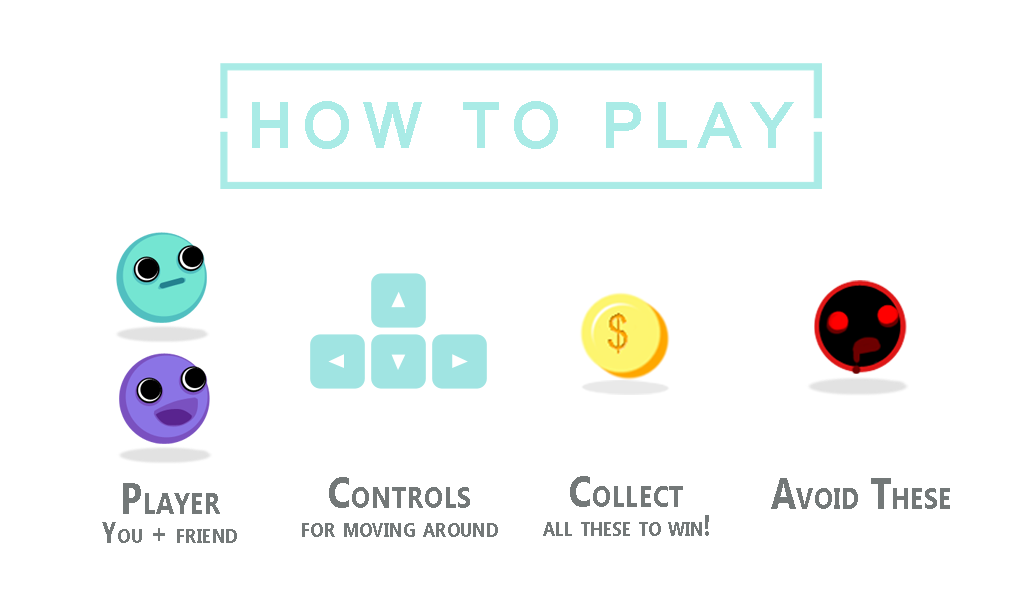
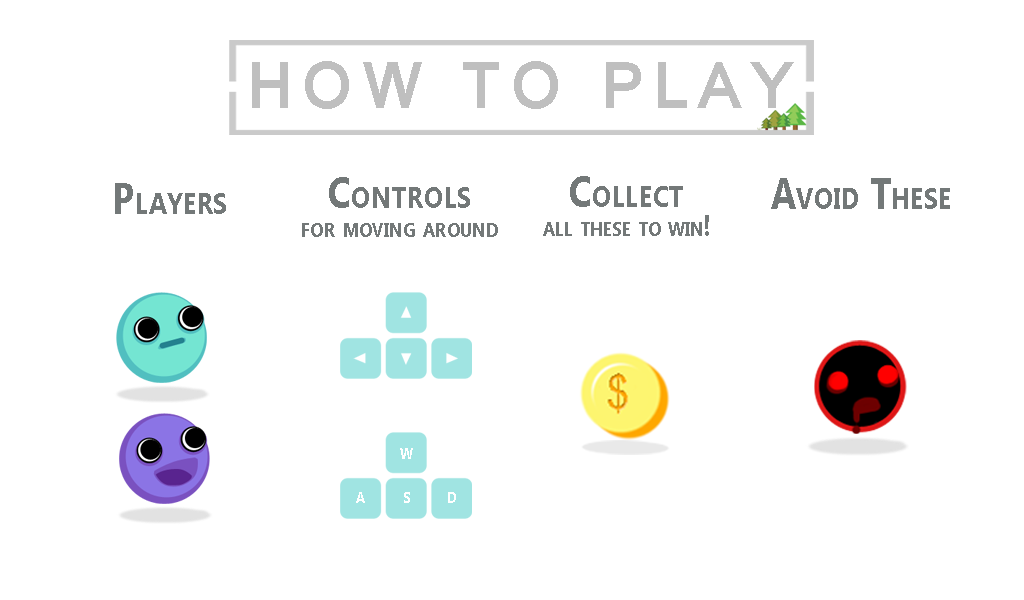
Changed look of the game.

diff --git a/project/src/Renderer.java b/project/src/Renderer.java
@@ -39,10 +39,10 @@ public class Renderer {
 
 	// menu config
 	private static final double MENU_MARGIN = 0.025;
-	private static final Color MENU_DEFAULT_FILL = new Color(0xBEBEBE);
+	private static final Color MENU_DEFAULT_FILL = new Color(0xC9C9C9);
 	private static final Color MENU_DEFAULT_CONTENT = Color.WHITE;
-	private static final Color MENU_SELECTED_FILL = new Color(0x89C4C0);
-	private static final Color MENU_SELECTED_CONTENT = new Color(0x4B989C);
+	private static final Color MENU_SELECTED_FILL = new Color(0xB1B1B1);
+	private static final Color MENU_SELECTED_CONTENT = new Color(0x718686);
 
 	// whether to wipe the canvas clean on each frame (recommended)
 	private static final boolean CLEAN_FRAME = true;
@@ -281,13 +281,13 @@ public class Renderer {
 		final int SX = 1600;
 		final int SY = 900;
 		Graphics2D g = getTransformedGraphics(MENU_MARGIN, SX, SY);
-		g.drawImage(ImageCache.getImage("title"), 0, 0, SX, SY / 2, null);
+		g.drawImage(ImageCache.getImage("title"), SX/4, 0, SX/2, SY/2, null);
 		g.setColor(MENU_DEFAULT_CONTENT);
 		g.drawRect(0, 0, SX, SY / 2);
 		g.setFont(stringFont);
 		// drawStringCentred(g, "Maze Game", SX / 2, SY / 4);
 		
-		String[] difficulty = new String[] { "PLAY:EASY", "PLAY:MEDIUM", "PLAY:HARD", "PLAY:MULTIPLAYER" };
+		String[] difficulty = new String[] { "PLAY: EASY", "PLAY: MEDIUM", "PLAY: HARD", "PLAY: MULTIPLAYER" };
 		String[] strings = new String[] { difficulty[m.getDifficulty()], "INSTRUCTIONS", "QUIT" };
 		if (m.getSelected() == 0) {
 			strings[0] = difficulty[m.getDifficulty()];
